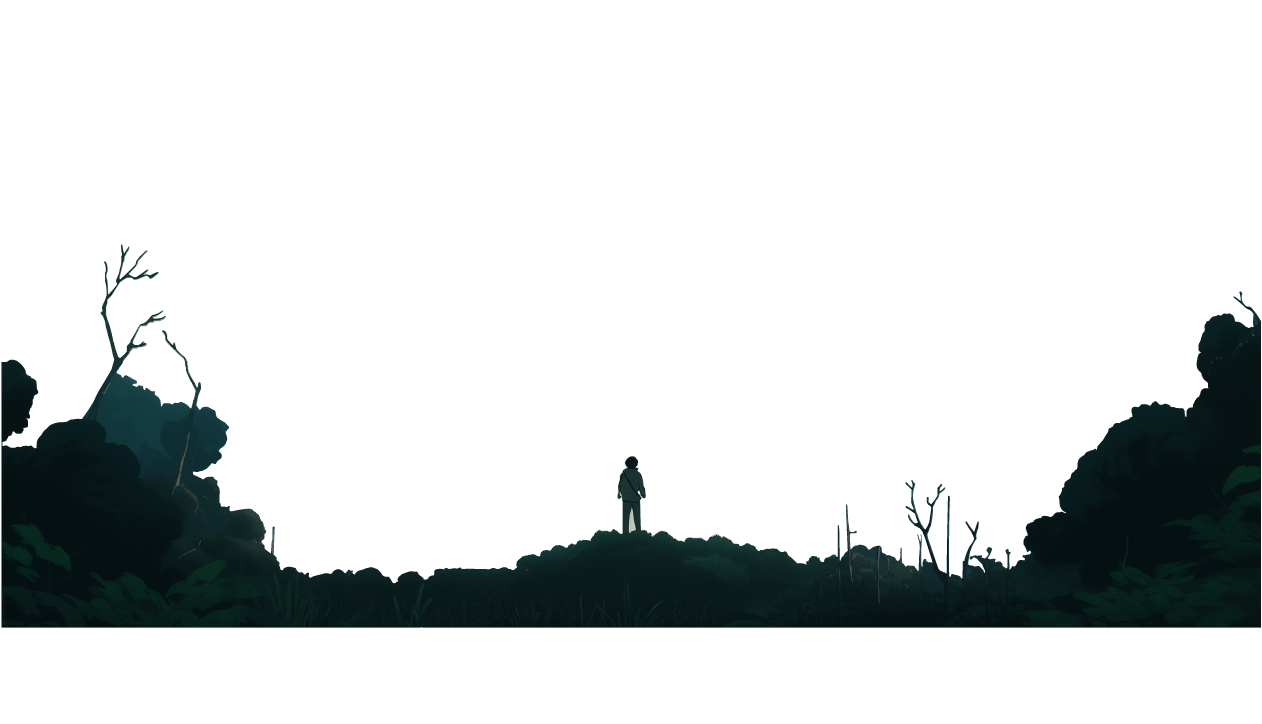
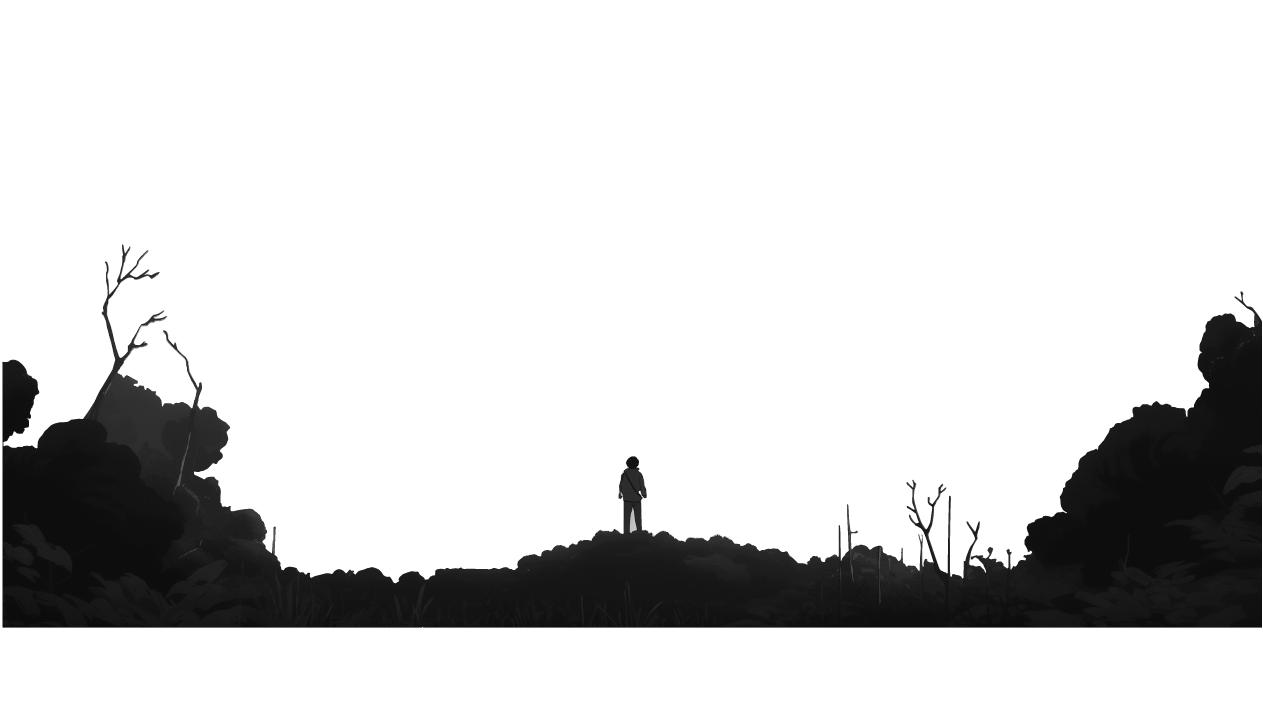
update hehe

diff --git a/src/pages/prehistoricOfIndonesia.css b/src/pages/prehistoricOfIndonesia.css
@@ -16,7 +16,7 @@ a:visited {
     width: 100%;
     position: relative;
     height: 115vh;
-    background-color: #8ed6d4;}
+    background-color: #bfbfbf;}
 
 .parallaxImage, .landscapeParallaxImage {
     background-position: center bottom;
